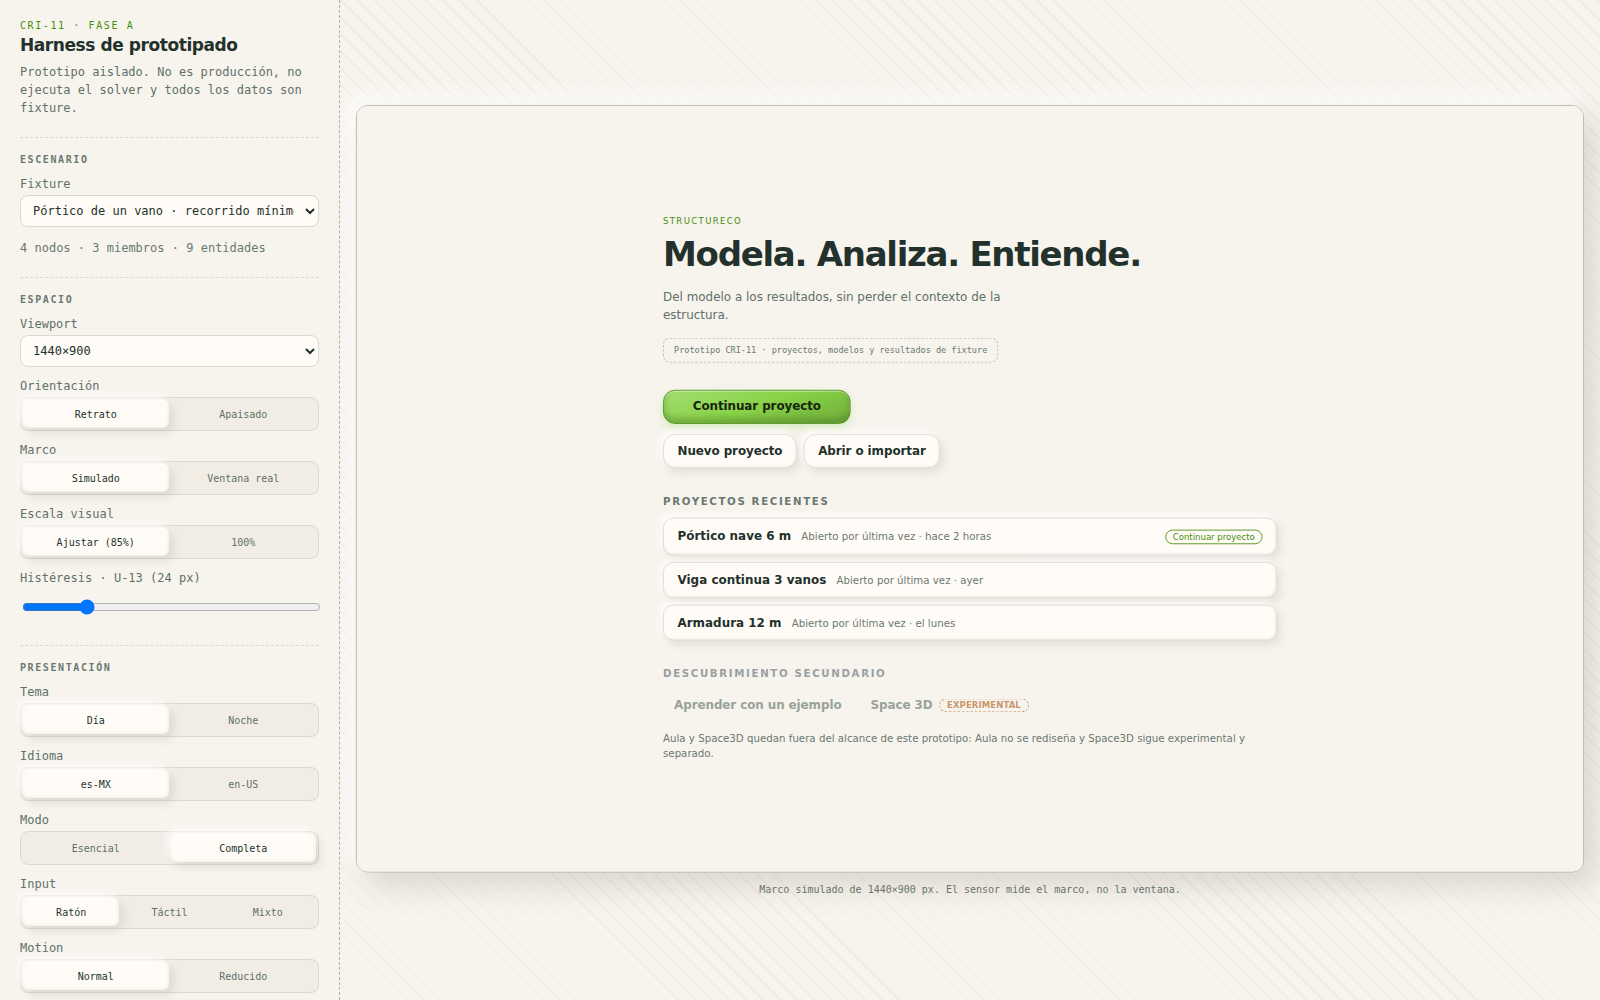
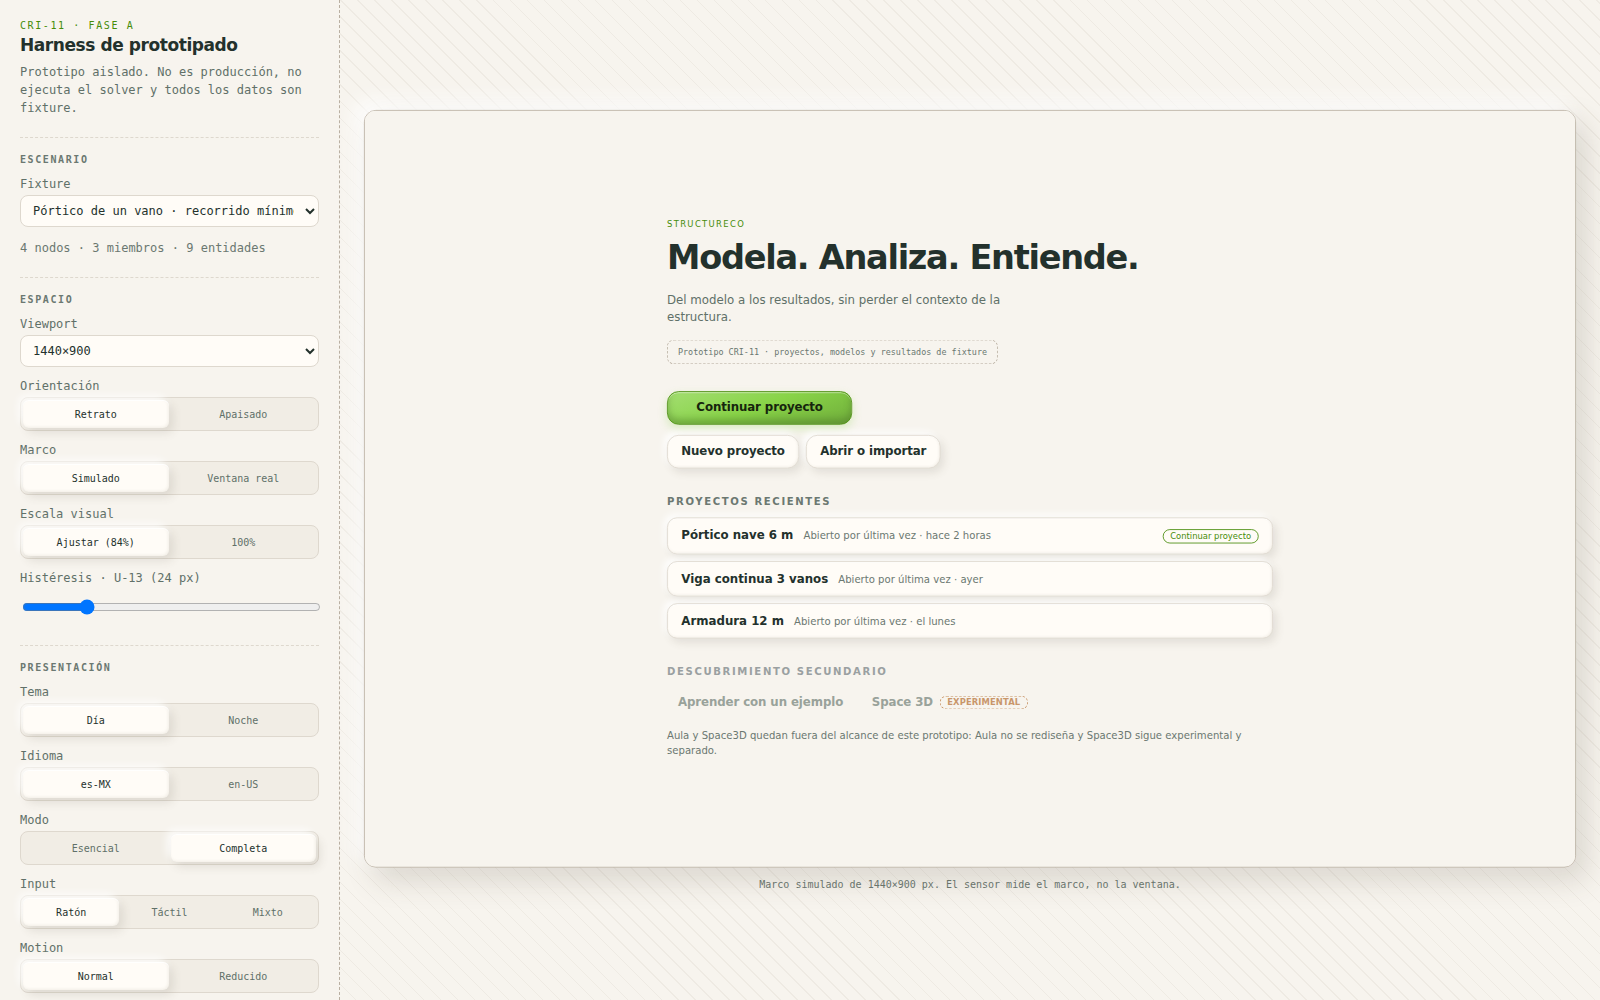
fix(cri-11): harness móvil real + build de artifact para preview aislado
El panel del laboratorio calculaba el espacio disponible restando un ancho de
panel fijo (340px), asumiendo el layout de escritorio. Por debajo de 900px
`harness.css` ya apila el panel arriba y deja de robar ancho horizontal, pero
el cálculo seguía restándolo: en un navegador móvil real de 390px quedaban 18px
"disponibles" y el marco simulado era invisible e inalcanzable, aunque el
prototipo bajo prueba sí soportaba Compact. Ahora se mide el contenedor real
con ResizeObserver.

Se añade además un build de un solo archivo (`vite-plugin-singlefile`) para
poder publicar el harness como preview aislado fuera del repositorio sin tocar
producción ni GitHub Pages, y un script que verifica ese bundle con el
viewport EXTERNO del navegador en desktop y en móvil real — que es justo la
prueba que faltaba y la que encontró el bug.

Claude-Session: https://claude.ai/code/session_01XXut5mAUgi6NW7wZ91joUs

diff --git a/prototypes/cri-11-harness/src/harness/HarnessShell.tsx b/prototypes/cri-11-harness/src/harness/HarnessShell.tsx
@@ -75,6 +75,7 @@ export const HarnessShell = ({ children }: { children: ReactNode }) => {
   const [events, setEvents] = useState(0);
   const [fit, setFit] = useState(true);
   const [available, setAvailable] = useState({ width: 1200, height: 800 });
+  const [stageBox, setStageBox] = useState<HTMLElement | null>(null);
   const { verdict, viewport } = derived;
 
   useEffect(() => subscribe(() => setEvents(snapshot().length)), []);
@@ -87,12 +88,27 @@ export const HarnessShell = ({ children }: { children: ReactNode }) => {
     document.documentElement.lang = state.axes.locale === 'es-MX' ? 'es' : 'en';
   }, [state.axes.locale]);
 
+  /**
+   * El espacio disponible para el marco simulado se MIDE del propio
+   * `.lab-stage`, no se calcula restando el ancho del panel lateral. Restar un
+   * 340px fijo asumía el layout de escritorio: por debajo de 900px el panel se
+   * apila arriba (`harness.css`, `@media (max-width: 900px)`) y deja de robar
+   * ancho, así que restarlo igualmente encogía el marco a unos pocos píxeles
+   * en un navegador móvil real — el propio harness quedaba inutilizable en el
+   * dispositivo que se supone que debe simular. Medir el contenedor real
+   * respeta cualquier punto de quiebre sin tener que duplicarlo aquí.
+   */
   useEffect(() => {
-    const update = () => setAvailable({ width: window.innerWidth - 372, height: window.innerHeight - 96 });
+    if (!stageBox) return;
+    const update = () => {
+      const box = stageBox.getBoundingClientRect();
+      setAvailable({ width: Math.max(160, box.width - 48), height: Math.max(160, box.height - 64) });
+    };
     update();
-    window.addEventListener('resize', update);
-    return () => window.removeEventListener('resize', update);
-  }, []);
+    const observer = new ResizeObserver(update);
+    observer.observe(stageBox);
+    return () => observer.disconnect();
+  }, [stageBox]);
 
   const set = (patch: Partial<HarnessAxes>) => dispatch({ type: 'axis/set', patch });
   const frameSize = presetViewport(state.axes);
@@ -351,7 +367,7 @@ export const HarnessShell = ({ children }: { children: ReactNode }) => {
         </div>
       </aside>
 
-      <main className="lab-stage">
+      <main className="lab-stage" ref={setStageBox}>
         {state.axes.realWindow ? (
           <div className="lab-frame lab-frame--window" ref={setFrame} data-theme-scope>
             <div className="lab-frame__viewport" data-input={state.axes.input} data-motion={state.axes.motion}>

diff --git a/prototypes/cri-11-harness/vite.artifact.config.ts b/prototypes/cri-11-harness/vite.artifact.config.ts
@@ -1,0 +1,28 @@
+import { fileURLToPath } from 'node:url';
+import { defineConfig } from 'vite';
+import react from '@vitejs/plugin-react';
+import { viteSingleFile } from 'vite-plugin-singlefile';
+
+/**
+ * Build alterno, sólo para publicar un preview temporal fuera de este entorno
+ * (Artifact hosting, ya que Netlify/Vercel/Surge están bloqueados por la
+ * política de red de este contenedor). No sustituye `vite.config.ts`: el dev
+ * server, `npm run build` y `npm run smoke` siguen igual.
+ *
+ * Inlinea JS y CSS en un único `index.html` porque el destino no sirve
+ * archivos adicionales — todo tiene que llegar en un solo documento
+ * autocontenido, sin llamadas de red externas.
+ */
+const repositoryRoot = fileURLToPath(new URL('../..', import.meta.url));
+
+export default defineConfig({
+  plugins: [react(), viteSingleFile()],
+  base: './',
+  server: { fs: { allow: [repositoryRoot] } },
+  build: {
+    outDir: 'dist-artifact',
+    assetsInlineLimit: 100_000_000,
+    cssCodeSplit: false,
+    chunkSizeWarningLimit: 4000,
+  },
+});

diff --git a/prototypes/cri-11-harness/index.html b/prototypes/cri-11-harness/index.html
@@ -11,7 +11,7 @@
       name="description"
       content="CRI-11 Fase A · harness de prototipado aislado de StructureCo. Datos de fixture; no es la aplicación de producción."
     />
-    <title>structureCo · CRI-11 Fase A · harness</title>
+    <title>CRI-11 Harness</title>
   </head>
   <body>
     <div id="root"></div>

diff --git a/reports/2026-08-15-2300-cri-11-preview-publico.md b/reports/2026-08-15-2300-cri-11-preview-publico.md
@@ -1,0 +1,96 @@
+# CRI-11 · Fase A — preview público temporal del harness
+
+**Fecha:** 2026-08-15 23:00
+**Agente:** Claude Code
+**Rama:** `claude/cri-11-fase-a-prototype-ej1x53`
+**Clasificación:** `AUDIT/TEMPORARY`
+
+## Qué cambió
+
+Se pidió publicar el harness de CRI-11 Fase A como preview temporal en la nube
+(Netlify/Vercel o equivalente), sin tocar `main` ni el GitHub Pages de
+producción. Netlify, Vercel y Surge están bloqueados por la política de red de
+este entorno (`403` en el `CONNECT` del proxy, confirmado contra
+`api.netlify.com`, `api.vercel.com` y `surge.sh` — no es un problema de
+credenciales). Se usó el equivalente disponible en esta sesión: un build de un
+solo archivo HTML autocontenido, publicado como página aislada fuera del
+repositorio (Artifact). No crea ni modifica ninguna configuración de Pages.
+
+Añadido:
+
+- `vite.artifact.config.ts` — config de build alterna (no sustituye
+  `vite.config.ts`) que usa `vite-plugin-singlefile` para inlinear JS y CSS en
+  un único `index.html`, sin llamadas de red externas.
+- `scripts/verify-artifact.mjs` — abre ese bundle con Chromium en viewport
+  EXTERNO de escritorio (1440×900) y de móvil real (390×844), y falla ante
+  cualquier error de consola, excepción o request fallida.
+- `npm run build:artifact` y `npm run verify:artifact`.
+- `index.html`: el `<title>` pasa de `structureCo · CRI-11 Fase A · harness` a
+  `CRI-11 Harness` (nombre corto y específico, sin el patrón de breadcrumb).
+
+## Bug real encontrado y corregido
+
+`verify-artifact.mjs` reveló que el propio panel del laboratorio —no el
+prototipo bajo prueba— era inutilizable en un navegador móvil real. Ninguna
+prueba anterior lo había ejercitado: `smoke.mjs` siempre corre con el navegador
+externo fijo en 1600×1000 y sólo cambia el marco *simulado* dentro del
+harness; nunca reduce la ventana real.
+
+`HarnessShell.tsx` calculaba el espacio disponible para el marco restando un
+ancho de panel fijo (`window.innerWidth - 372`), asumiendo el layout de
+escritorio (panel lateral de 340px). Por debajo de 900px de ancho, `harness.css`
+ya apila el panel arriba del escenario (`@media (max-width: 900px)`), y el
+panel deja de robar ancho horizontal — pero el cálculo seguía restando esos
+372px igual. En 390px de ancho eso dejaba **18px** de espacio "disponible": el
+marco se encogía a casi nada y el botón `Continuar proyecto` quedaba
+inalcanzable — Playwright lo confirmó con un timeout de 30s intentando hacer
+clic.
+
+**Corrección:** el espacio disponible ahora se **mide** del contenedor real
+(`.lab-stage`) con `ResizeObserver`, en vez de calcularse restando una
+constante que sólo era válida para un layout. Así el cálculo respeta cualquier
+punto de quiebre de `harness.css` sin tener que duplicarlo en JS.
+
+Verificado con capturas antes/después en
+`reports/evidence/2026-08-15-cri-11-fase-a/artifact-{desktop,mobile}-{welcome,workspace}.png`:
+el marco pasó de invisible/inalcanzable a visible, legible y clicable en
+390×844 real.
+
+## Por qué
+
+El encargo pedía verificar explícitamente que cargara en desktop **y** móvil.
+Publicar algo roto en móvil sin haberlo probado con un viewport externo real
+habría incumplido esa instrucción, aunque el bug estuviera en el chrome del
+laboratorio y no en el producto bajo prueba.
+
+## Archivos tocados
+
+| Archivo | Qué |
+|---|---|
+| `prototypes/cri-11-harness/vite.artifact.config.ts` | Nuevo — build de un solo archivo |
+| `prototypes/cri-11-harness/scripts/verify-artifact.mjs` | Nuevo — verificación desktop+móvil con viewport externo real |
+| `prototypes/cri-11-harness/src/harness/HarnessShell.tsx` | Fix — espacio disponible medido, no calculado sobre una constante de layout |
+| `prototypes/cri-11-harness/index.html` | Título del documento, más corto y específico |
+| `prototypes/cri-11-harness/package.json` | `build:artifact`, `verify:artifact`, `vite-plugin-singlefile` |
+| `prototypes/cri-11-harness/.gitignore` | Ignora `dist-artifact/` |
+| `prototypes/cri-11-harness/README.md` | Documenta el flujo de preview y el bug corregido |
+
+No se tocó `src/**` de producción, `brand/**`, `docs/**`, gates, ni la
+configuración de GitHub Pages. `dist/` y `dist-artifact/` no se commitean.
+
+## Cómo verificar
+
+```bash
+npm --prefix prototypes/cri-11-harness run build:artifact
+npm --prefix prototypes/cri-11-harness run verify:artifact   # 2/2, sin errores
+npm --prefix prototypes/cri-11-harness run smoke             # 26/26, sigue en verde
+node --test prototypes/cri-11-harness/src/core/resolver.test.mjs   # 18/18
+```
+
+## Pendiente / siguiente paso
+
+El preview publicado es temporal y vive fuera del control de versiones de este
+repositorio (hosting de Artifact). Si se necesita un preview persistente y
+compartible por URL fija más adelante, valdría la pena habilitar Netlify o
+Vercel explícitamente para este entorno — hoy ambos están bloqueados por
+política de red, no por falta de configuración del proyecto.

diff --git a/prototypes/cri-11-harness/README.md b/prototypes/cri-11-harness/README.md
@@ -29,6 +29,30 @@ npm --prefix prototypes/cri-11-harness run build
 npm --prefix prototypes/cri-11-harness run smoke           # recorrido real en Chromium
 ```
 
+## Preview público temporal
+
+`vite.artifact.config.ts` produce un único `index.html` autocontenido (JS y CSS
+inlineados, cero llamadas de red) para publicarlo como preview aislado fuera de
+este repositorio — útil cuando alguien necesita probarlo sin clonar nada.
+
+```bash
+npm --prefix prototypes/cri-11-harness run build:artifact    # dist-artifact/index.html
+npm --prefix prototypes/cri-11-harness run verify:artifact   # desktop + móvil, viewport EXTERNO real
+```
+
+`verify:artifact` es distinto de `smoke`: `smoke` fija el navegador externo en
+1600×1000 y sólo cambia el marco *simulado* dentro del laboratorio; éste abre
+el bundle con el viewport externo en tamaño de escritorio y en tamaño de móvil
+real, porque es justo lo que cambia al compartir un enlace. Así se detectó y
+corrigió un bug real: el cálculo de "espacio disponible" del panel asumía el
+layout de escritorio (340px fijo) y encogía el marco a un puñado de píxeles en
+un navegador móvil real, aunque el propio prototipo simulado sí soportaba
+Compact — el bug estaba en el chrome del laboratorio, no en el producto bajo
+prueba. `HarnessShell.tsx` mide ahora el contenedor real con `ResizeObserver`.
+
+No genera un dominio propio: el build es un archivo, para publicarlo con
+cualquier hosting que sirva HTML estático o con el flujo de Artifact.
+
 `smoke` necesita un `build` previo; deja capturas y un resumen en
 `reports/evidence/2026-08-15-cri-11-fase-a/` y sale con código 1 si hay un solo
 error de consola o una aserción incumplida.

diff --git a/reports/evidence/2026-08-15-cri-11-fase-a/smoke-report.md b/reports/evidence/2026-08-15-cri-11-fase-a/smoke-report.md
@@ -1,6 +1,6 @@
 # CRI-11 Fase A · recorrido ejecutado
 
-Ejecutado el 2026-08-15T22:20:58.593Z sobre Chromium (Playwright), build de `prototypes/cri-11-harness`.
+Ejecutado el 2026-08-15T22:35:26.577Z sobre Chromium (Playwright), build de `prototypes/cri-11-harness`.
 
 ## Comprobaciones superadas
 
@@ -28,7 +28,7 @@ Ejecutado el 2026-08-15T22:20:58.593Z sobre Chromium (Playwright), build de `pro
 - El eje de estado alcanza failed.
 - offline se muestra sin convertirse en una fase de análisis.
 - La causa gobernante vive en un botón, no en un `title` (D-14).
-- Fixture grande: 1292 filas pintadas sin virtualización en 14 ms hasta la primera fila.
+- Fixture grande: 1292 filas pintadas sin virtualización en 13 ms hasta la primera fila.
 - Esencial baja de 8 a 5 columnas conservando 1292 filas y sus rutas.
 
 ## Fallos
